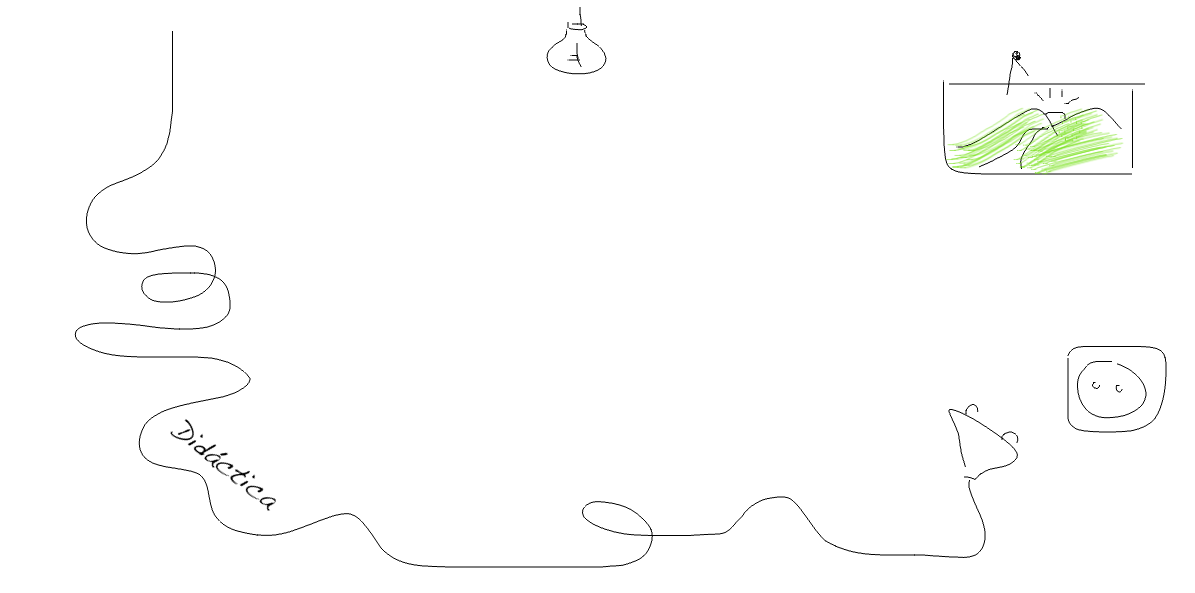
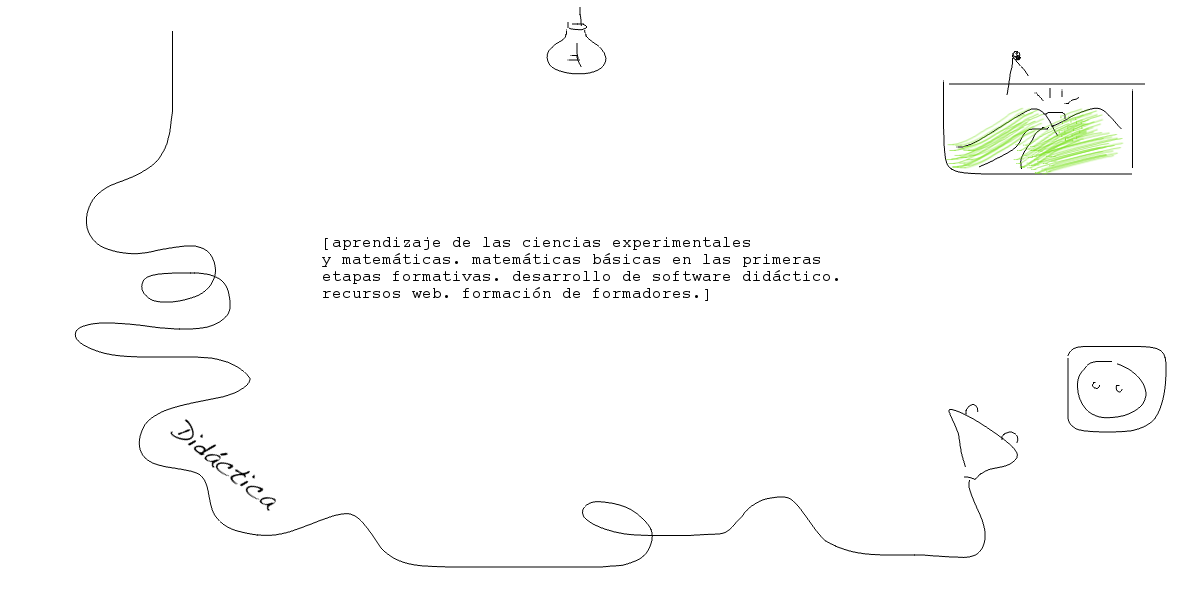
Contenidos web casi llenos
Falta incorporar el blog y rellenar la web inicio (y revisar los
contenidos, claro)

Changed region(s): [[0.2787, 0.3946, 0.6812, 0.516]]

diff --git a/site/noproblem/noproblem/templates/desarrollo.html b/site/noproblem/noproblem/templates/desarrollo.html
@@ -3,5 +3,49 @@
 {% block title %}Connecta{% endblock %}
 
 {% block content %}
-Desarrollo
+<div id="div-1a">
+<div id="cuadro">
+<b>Nuestro objetivo</b>
+<br><br>
+En Connecta tenemos como principal objetivo el aprendizaje de la construcción
+científica y tecnológica. En los servicios de didáctica y divulgación
+nos centramos en la construcción de conceptos ya construídos, mientras
+que en la parte de desarrollo queremos fomentar la construcción de 
+unos nuevos. Desde Connecta creemos que es crucial que las personas, en sus etapas formativas, 
+aprendan a utilizar la información que tienen, trabajar en equipo y buscar recursos no
+sólo para construir aquello que se requiere que sepan (adquirir
+la alfabetización científica) sino para innovar, para ir un poco más allá. Al fin y al cabo
+ese será su trabajo tanto si es en el ámbito puramente científico como si lo es en el más técnico.
+<p> Con esta intención, desde Connecta diseñaremos y dirigiremos proyectos realizables a corto
+plazo por estudiantes de entre 15 y 25 años. Los primeros se centrarán en la creación de aplicaciones
+móvil y web sencillas. Más adelante propondremos otro tipo de proyectos, muchos de ellos relacionados con
+la sostenibilidad y otros temas relevantes e interesantes para nuestra actualidad.
+<p>¿Qué ganan los estudiantes que se involucren en uno de estos proyectos? Su posible comercialización
+en caso de que se considere oportuno; y el propio aprendizaje de construcción científico-técnica, 
+la convivencia con el error, las habilidades y estrategias para crear una solución, 
+el aprovechamiento de los recursos de otros, la colaboración y la comunicación de resultados.
+</div>
+</div>
+
+<div id="div-1b">
+<h2> Para jóvenes/adultos </h2>
+Proyectos dirigidos:
+<ul>
+<li>Programación</li>
+<br>
+<li>Trabajo en equipo y comunicación</li>
+<br>
+<li>Colaboraciones externas</li>
+<br>
+<li>Posible comercialización</li>
+</ul>
+Actualmente Connecta todavía no tiene sus propias instalaciones, donde se
+dispondrá de todo el material necesario para la ejecución de estos proyectos, 
+por lo que se reserva la iniciación del servicio de desarrollo 
+hasta Septiembre de 2013. Abriremos la fecha de inscripción en los proyectos al 
+final de este curso académico.
+</div>
+
+<div id="div-1c">
+</div>
 {% endblock %}

diff --git a/site/noproblem/noproblem/templates/contacto.html b/site/noproblem/noproblem/templates/contacto.html
@@ -11,11 +11,14 @@ Connecta es un centro multiplataforma que opera vía web y que abrirá un centro
 de la Valencia próximamente. Mientras tanto, podrás encontrarnos 
 en algunos de nuestros centros amigos.
 <p>
-Si te interesa alguno de los servicios que ofrecemos, si simplemente quieres información
-o tienes alguna duda, puedes ponerte en contacto con nosotros por teléfono al 617980097
-o a través del siguiente formulario:
+Si te interesa alguno de los servicios que ofrecemos, si quieres información
+o tienes alguna duda, puedes ponerte en contacto con nosotros >>
+<ul>
+<li>Por teléfono: 617980097</li>
+<li>Por (vídeo)conferencia <span style="color:#8F2250;">Skype</span>: connecta.cpc</li>
+<li>Por e-mail a través del siguiente formulario >></li>
+</ul>
 <form id="pos_form">
-<br><br>
 <div id="cuadro">
 <!-- 
 	<fieldset>
@@ -37,6 +40,7 @@ o a través del siguiente formulario:
 		<input type="checkbox" name="chkHab” value="xhtml" />Divulgación <br />
 		<input type="checkbox" name="chkHab" value="CSS" />Didáctica<br />
 		<input type="checkbox" name="chkHab" value="JavaScript" />Desarrollo<br />
+		<input type="checkbox" name="chkHab" value="aspnet" />Pregunta semanal<br />
 		<input type="checkbox" name="chkHab" value="aspnet" />Otros<br />
 		<label for="content">Contenido del Mensaje: </label><br/>
 		<textarea id="content" cols="50" rows="6">
@@ -60,8 +64,8 @@ o a través del siguiente formulario:
 <h2> Nuestros centros amigos</h2>
 <div style="padding-left:100px;"><img src="{{ MEDIA_URL }}equipo.jpg" width="90%" height="90%" align="center"> </img></div>
 <br>
-Nuestros centros amigos son los centros que nos ceden sus instalaciones para realizar algún servicio, 
-por ahora están en Campanar (Valencia), La Canyada (Paterna) y Colinas de San Antonio (San Antonio
+Nuestros centros amigos son los centros o espacios que nos ceden sus instalaciones para realizar algún servicio. Por ahora 
+estaremos en la zona de Campanar (Valencia), La Canyada (Paterna) y Colinas de San Antonio (San Antonio
 de Beganéber). 
 </div>
 

diff --git a/site/noproblem/noproblem/templates/didactica.html b/site/noproblem/noproblem/templates/didactica.html
@@ -62,14 +62,34 @@ New York: Routledge, 2007.
 
 <div id="div-1b">
 <h2> Para estudiantes </h2>
-Atención personalizada, individual o en pequeños grupos, para el trabajo de las materias de ciencias y matemáticas. 
-Desde niveles de primaria y secundaria a primeros cursos (generales) universitarios o de ciclos formativos.
+>> de primaria, secundaria y primeros cursos (generales) universitarios o de ciclos formativos:
+<ul>
+<li>Atención personalizada en <u>grupos reducidos</u> para el trabajo de las materias de ciencias experimentales y matemáticas</li>
+<br>
+<li>Atención personalizada <u>individual</u> para el trabajo de las materias de ciencias experimentales y matemáticas</li>
+<br>
+<li>Dificultades con las matemáticas básicas en las primeras etapas formativas: tratamiento individual y en grupo</li>
+<br>
+<li><i>E-learning</i>: Uso de las aplicaciones didácticas que iremos actualizando en esta web. Contacto Skype para 
+pequeñas consultas</li>
+</ul>
+
 <h2> Para profesores </h2>
-Desarrollamos aplicaciones de didáctica para que puedas usarlas en tus clases. Podemos trabajar contigo
-para adaptarlas a tus necesidades docentes o te cedemos el uso a través de nuestra web.
-<p><b>Formación de formadores</b>
+
+<ul>
+<li>Desarrollo de aplicaciones didácticas personalizadas</li>
+<br>
+<li>Uso <i>pro</i> de nuestras aplicaciones didácticas a través de esta web</li>
+<br>
+<li>Formación de formadores: cursos intensivos para trabar técnicas de didáctica de las ciencias
+experimentales</li>
+<br>
+<li>Visitas guiadas y talleres para tus alumnos</li>
+</ul>
+<div align="center"><img src="{{ MEDIA_URL }}lluvia.png" width="100%" height="500%" align="center"> </img></div>
+<div align="center"><img src="{{ MEDIA_URL }}solo_cable.png" width="100%" height="500%" align="center"> </img></div>
+<div align="center"><img src="{{ MEDIA_URL }}formula.png" width="100%" height="500%" align="center"> </img></div>
 </div>
 <div id="div-1c"></div>
-
 
 {% endblock %}

diff --git a/site/noproblem/noproblem/templates/divulgacion.html b/site/noproblem/noproblem/templates/divulgacion.html
@@ -3,8 +3,57 @@
 {% block title %}Connecta{% endblock %}
 
 {% block content %}
+<div id="div-1a">
+<div id="cuadro">
+<b>¡Participa!</b>
+<br><br>
+Acierta la <a href="/welcome/" title="welcome">pregunta semanal</a>, entra
+en <a href="/contacto/" title="contacto">Contacto</a> y envíanos tu respuesta
+rellenando el formulario. Si eres
+la primera persona en acertar PuntosConnecta que podrás canjear por alguno de nuestros servicios
+y publicaremos tu respuesta.
+<p>
+Ven al TrivialConnecta que organizamos una vez al mes y pasa un buen rato poniéndote a prueba.
+<p>
+Ven a los talleres infantiles que ofrecemos periódicamente; en ellos trabajamos un
+concepto científico determinado con juegos y dinámicas teatrales para niños/jóvenes
+a partir de 7 años. Tienen
+una duración aproximada de una hora y tú puedes participar con ellos.
+</div>
+<div align="center"><img src="{{ MEDIA_URL }}1es2.png" width="100%" height="500%" align="center"> </img></div>
+</div>
+
+<div id="div-1b">
 <h2> Infantil </h2>
+<ul>
+<li>Talleres</li>
+<br>
+<li>Visitas guiadas a centros de investigación y museos</li>
+<br>
+<li>Jornadas temáticas</li>
+</ul>
 <h2> Jóvenes y adultos </h2>
+<ul>
+<li>Web-blog, por ahora puedes encontrarlo 
+<a href="http://www.facebook.com/CienciaACasa" title="fb">aquí</a></li>
+<br>
+<li>Visitas guiadas a centros de investigación y museos</li>
+<br>
+<li>Charlas-debate y <i>journal clubs</i></li>
+<br>
+<li>Actividades periódicas: ¡Participa!</li>
+</ul>
 <h2> Transferencia </h2>
+<ul>
+<li>Gestion de ciclos de conferencias para centros de investigación y universidades</li>
+<br>
+<li>Eventos de transferencia científica para empresas privadas</li>
+<br>
+<li>Servicios de divulgación para ayuntamientos, asociaciones y entidades que los soliciten</li>
+</ul>
+</div>
+
+<div id="div-1c">
+</div>
 {% endblock %}
 

diff --git a/site/noproblem/noproblem/media/deco.css b/site/noproblem/noproblem/media/deco.css
@@ -35,7 +35,8 @@ div.hr hr {
 
 #poslogo {position:absolute;
 top:20px;
-right:690px;}
+right:675px;
+}
 
 .efectologo {
  width: 115px;
@@ -63,11 +64,12 @@ body{
 		font: 14px Trebuchet MS, Trebuchet, Helvetica, Arial;
 		line-height: 130%;
 		margin-top: 0px;
-      margin-right: 70px;
+      margin-right: 90px;
       margin-bottom: 0px;
-      margin-left: 70px; /*márgenes del body respecto al html completo*/
+      margin-left: 90px; /*márgenes del body respecto al html completo*/
       padding: 10px 10px 50px 10px;/*márgenes del texto dentro del body*/
-      border:solid 1px;
+      border-left:solid 1px;
+      border-right:solid 1px;
       border-color:black;  
       border-bottom:none; 
 }
@@ -93,7 +95,7 @@ ul {
 border-radius: 10%;
 border:none;
 background-color:#F0F0F0;
-width:500px;
+width:450px;
 text-align:justify;
 padding: 25px 25px 25px 25px;
 }

diff --git a/site/noproblem/noproblem/templates/about.html b/site/noproblem/noproblem/templates/about.html
@@ -48,6 +48,7 @@ que conoces, eres tú.
 		src="http://www.youtube.com/embed/YRpYQ3KDtwY?rel=0"
 		frameborder="0" allowfullscreen> </iframe>
 </div>
+<div align="center"><img src="{{ MEDIA_URL }}cableup.png" width="100%" height="500%" align="center"> </img></div>
 </div>
 
 <!-- Otra forma de embeber un video: parámetro object. dices el tipo y busca un reproductor adecuado.

diff --git a/site/noproblem/noproblem/views.py b/site/noproblem/noproblem/views.py
@@ -21,6 +21,7 @@ def desarrollo(request):
     
 def contacto(request):
     return render_to_response('contacto.html', context_instance=RequestContext(request))
+    
 
 #import datetime
 # def current_datetime(request):
